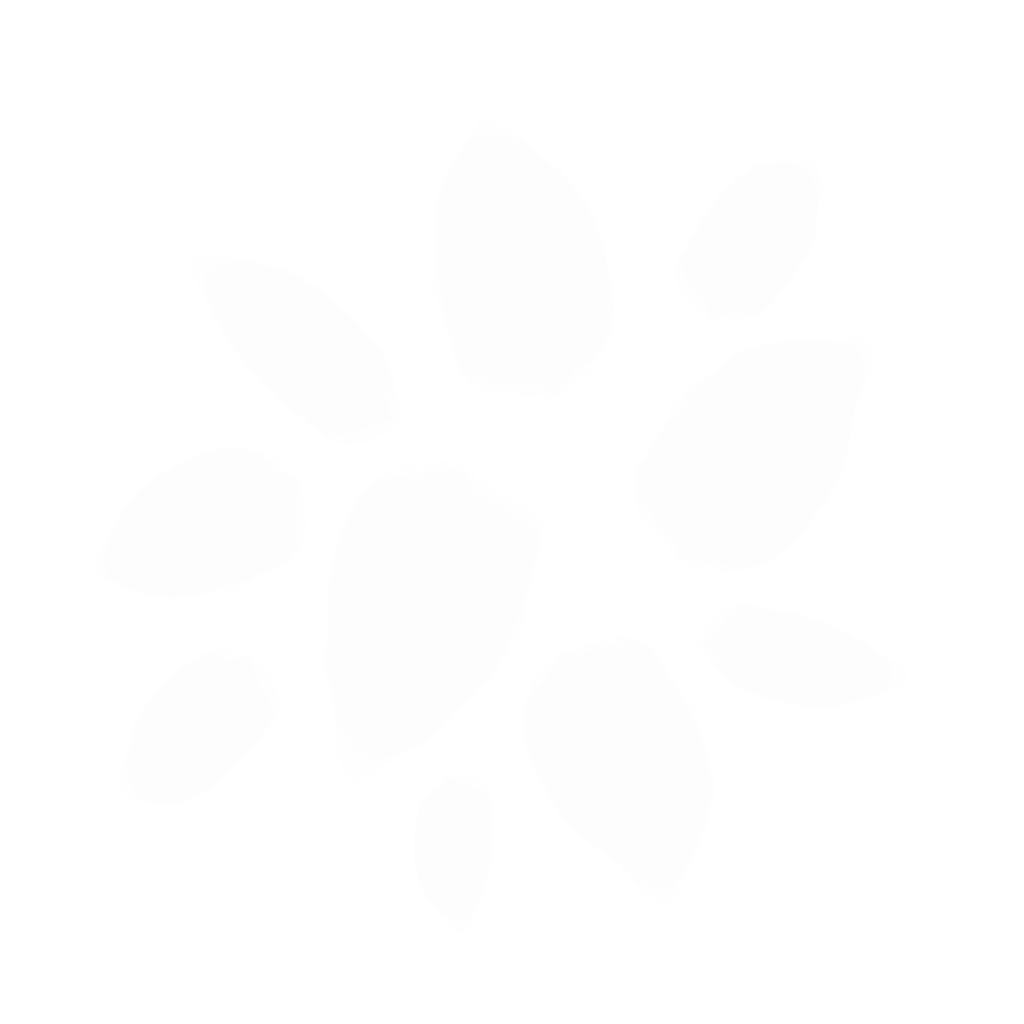
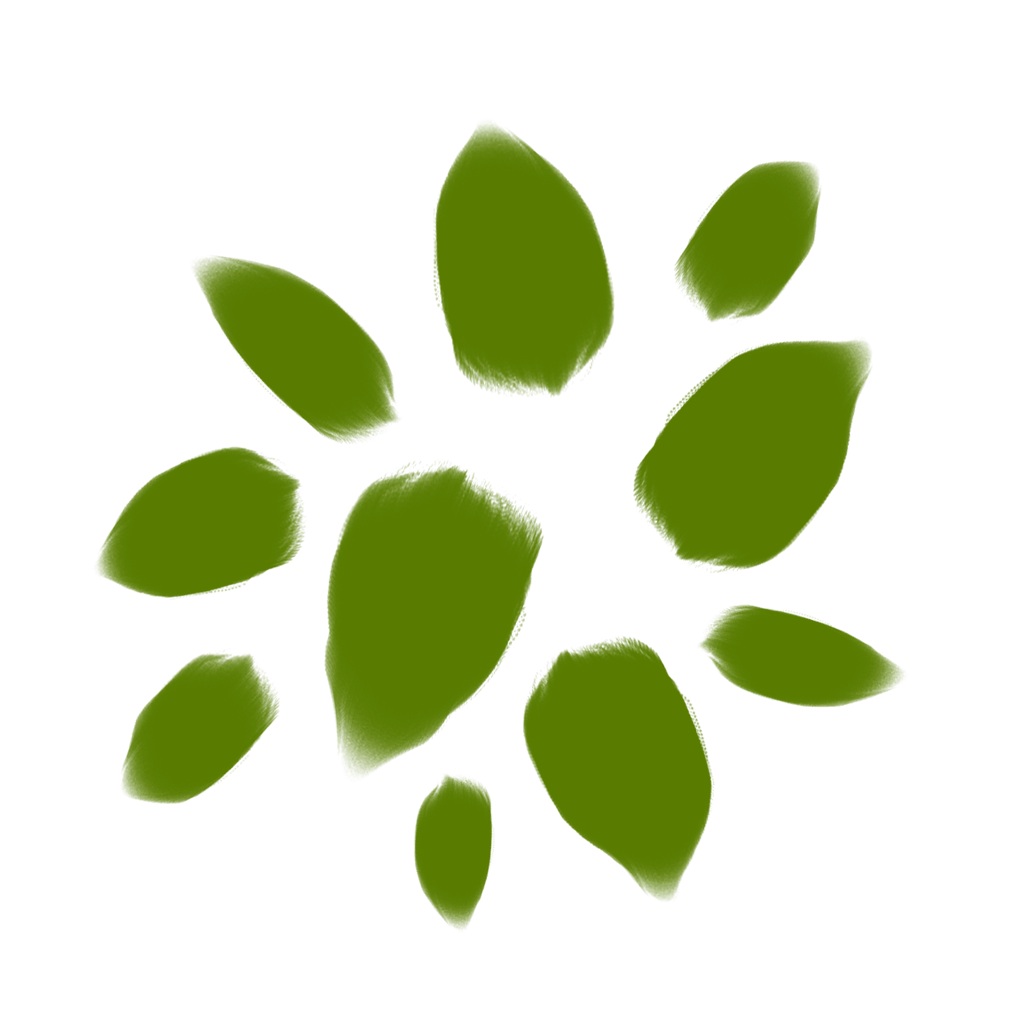
fix(render): feuilles colorees + troncs non transparents (culling) (#781)
Corrige deux problemes de rendu des arbres signales en jeu (captures
fournies).

## 1. Feuilles blanches
Les textures de feuilles **de base** du pack (`Leaves_NormalTree.png`,
`Leaf_Pine.png`, `Leaves_TwistedTree.png`) sont des **masques blancs**
(RGB ~1.0, la forme des feuilles est dans l'alpha). La **couleur** est
dans les variantes `_C` (vert, vert foncé, rouge-automne). -> Remplace
les 3 textures par leur version `_C` (memes noms de fichiers, donc gltf
inchanges).

## 2. On voit l'interieur des troncs
`GeometryPass` cullait les back-faces (`BACK` + `frontFace CW`). Les
arbres (Quaternius) ont un **winding oppose** aux props trim et sont
`doubleSided` (feuillages = quads). Resultat : faces avant des troncs
cullees (on voyait l'interieur), feuilles visibles d'un seul cote. ->
`cullMode = NONE` pour le pipeline props. Sans danger pour les meshes
pleins (face avant gagne le depth-test) ; **l'avatar n'est pas
concerne** (pipeline `SkinnedRenderer` separe).

## Verification
- A valider au runtime : feuilles **vertes** (decoupees), troncs pleins
vus de l'exterieur quel que soit l'angle.

## Deploiement
[OK] Client uniquement, pas de redeploiement serveur.

🤖 Generated with [Claude Code](https://claude.com/claude-code)

Pull request: fix(render): feuilles colorees + troncs non transparents (culling)
Corrige deux problemes de rendu des arbres signales en jeu (captures fournies).

## 1. Feuilles blanches
Les textures de feuilles **de base** du pack (`Leaves_NormalTree.png`, `Leaf_Pine.png`, `Leaves_TwistedTree.png`) sont des **masques blancs** (RGB ~1.0, la forme des feuilles est dans l'alpha). La **couleur** est dans les variantes `_C` (vert, vert foncé, rouge-automne). -> Remplace les 3 textures par leur version `_C` (memes noms de fichiers, donc gltf inchanges).

## 2. On voit l'interieur des troncs
`GeometryPass` cullait les back-faces (`BACK` + `frontFace CW`). Les arbres (Quaternius) ont un **winding oppose** aux props trim et sont `doubleSided` (feuillages = quads). Resultat : faces avant des troncs cullees (on voyait l'interieur), feuilles visibles d'un seul cote. -> `cullMode = NONE` pour le pipeline props. Sans danger pour les meshes pleins (face avant gagne le depth-test) ; **l'avatar n'est pas concerne** (pipeline `SkinnedRenderer` separe).

## Verification
- A valider au runtime : feuilles **vertes** (decoupees), troncs pleins vus de l'exterieur quel que soit l'angle.

## Deploiement
[OK] Client uniquement, pas de redeploiement serveur.

🤖 Generated with [Claude Code](https://claude.com/claude-code)

diff --git a/src/client/render/GeometryPass.cpp b/src/client/render/GeometryPass.cpp
@@ -376,7 +376,14 @@ namespace engine::render
 		VkPipelineRasterizationStateCreateInfo rs = {};
 		rs.sType       = VK_STRUCTURE_TYPE_PIPELINE_RASTERIZATION_STATE_CREATE_INFO;
 		rs.polygonMode = VK_POLYGON_MODE_FILL;
-		rs.cullMode    = VK_CULL_MODE_BACK_BIT;
+		// cullMode = NONE : les props proviennent de sources au winding heterogene
+		// (props trim CW, arbres Quaternius au winding oppose) et beaucoup sont
+		// doubleSided (feuillages = quads vus des deux cotes, troncs). Avec BACK_BIT
+		// on voyait l'INTERIEUR des troncs (faces avant cullees) et les feuilles
+		// disparaissaient d'un cote. NONE rend les deux faces : sans danger pour les
+		// meshes pleins (la face avant gagne le depth-test) et correct pour le feuillage.
+		// L'avatar n'est PAS concerne (pipeline SkinnedRenderer separe).
+		rs.cullMode    = VK_CULL_MODE_NONE;
 		// PR25 (M??.?) : meme correction que TerrainRenderer.cpp:528 (PR24).
 		// Le commit ee181da (Reapply view matrix transposee) a change la
 		// convention de Camera::ComputeViewMatrix vers Vulkan LH +Z forward.